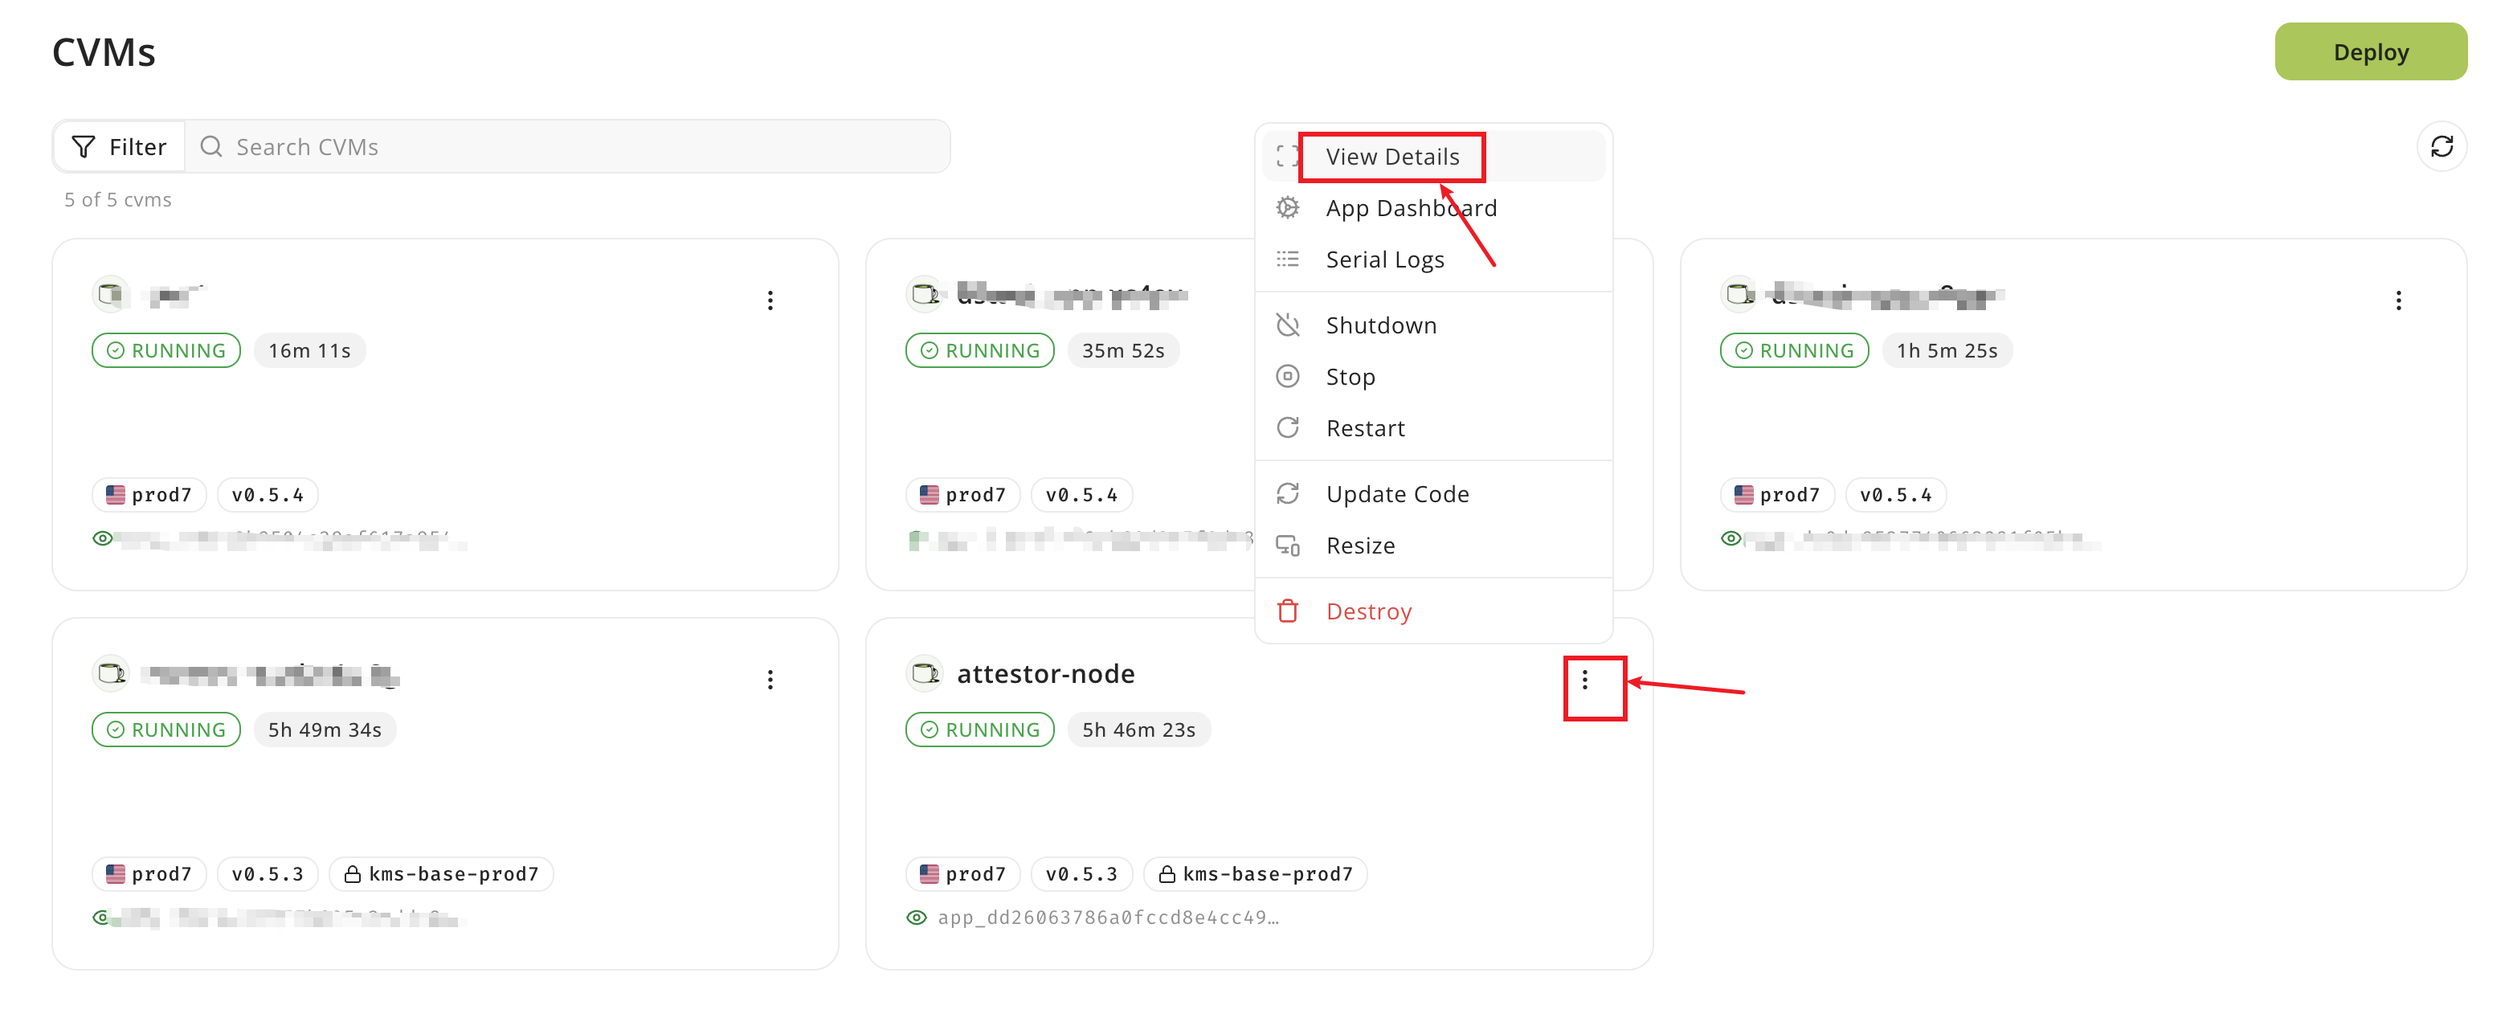
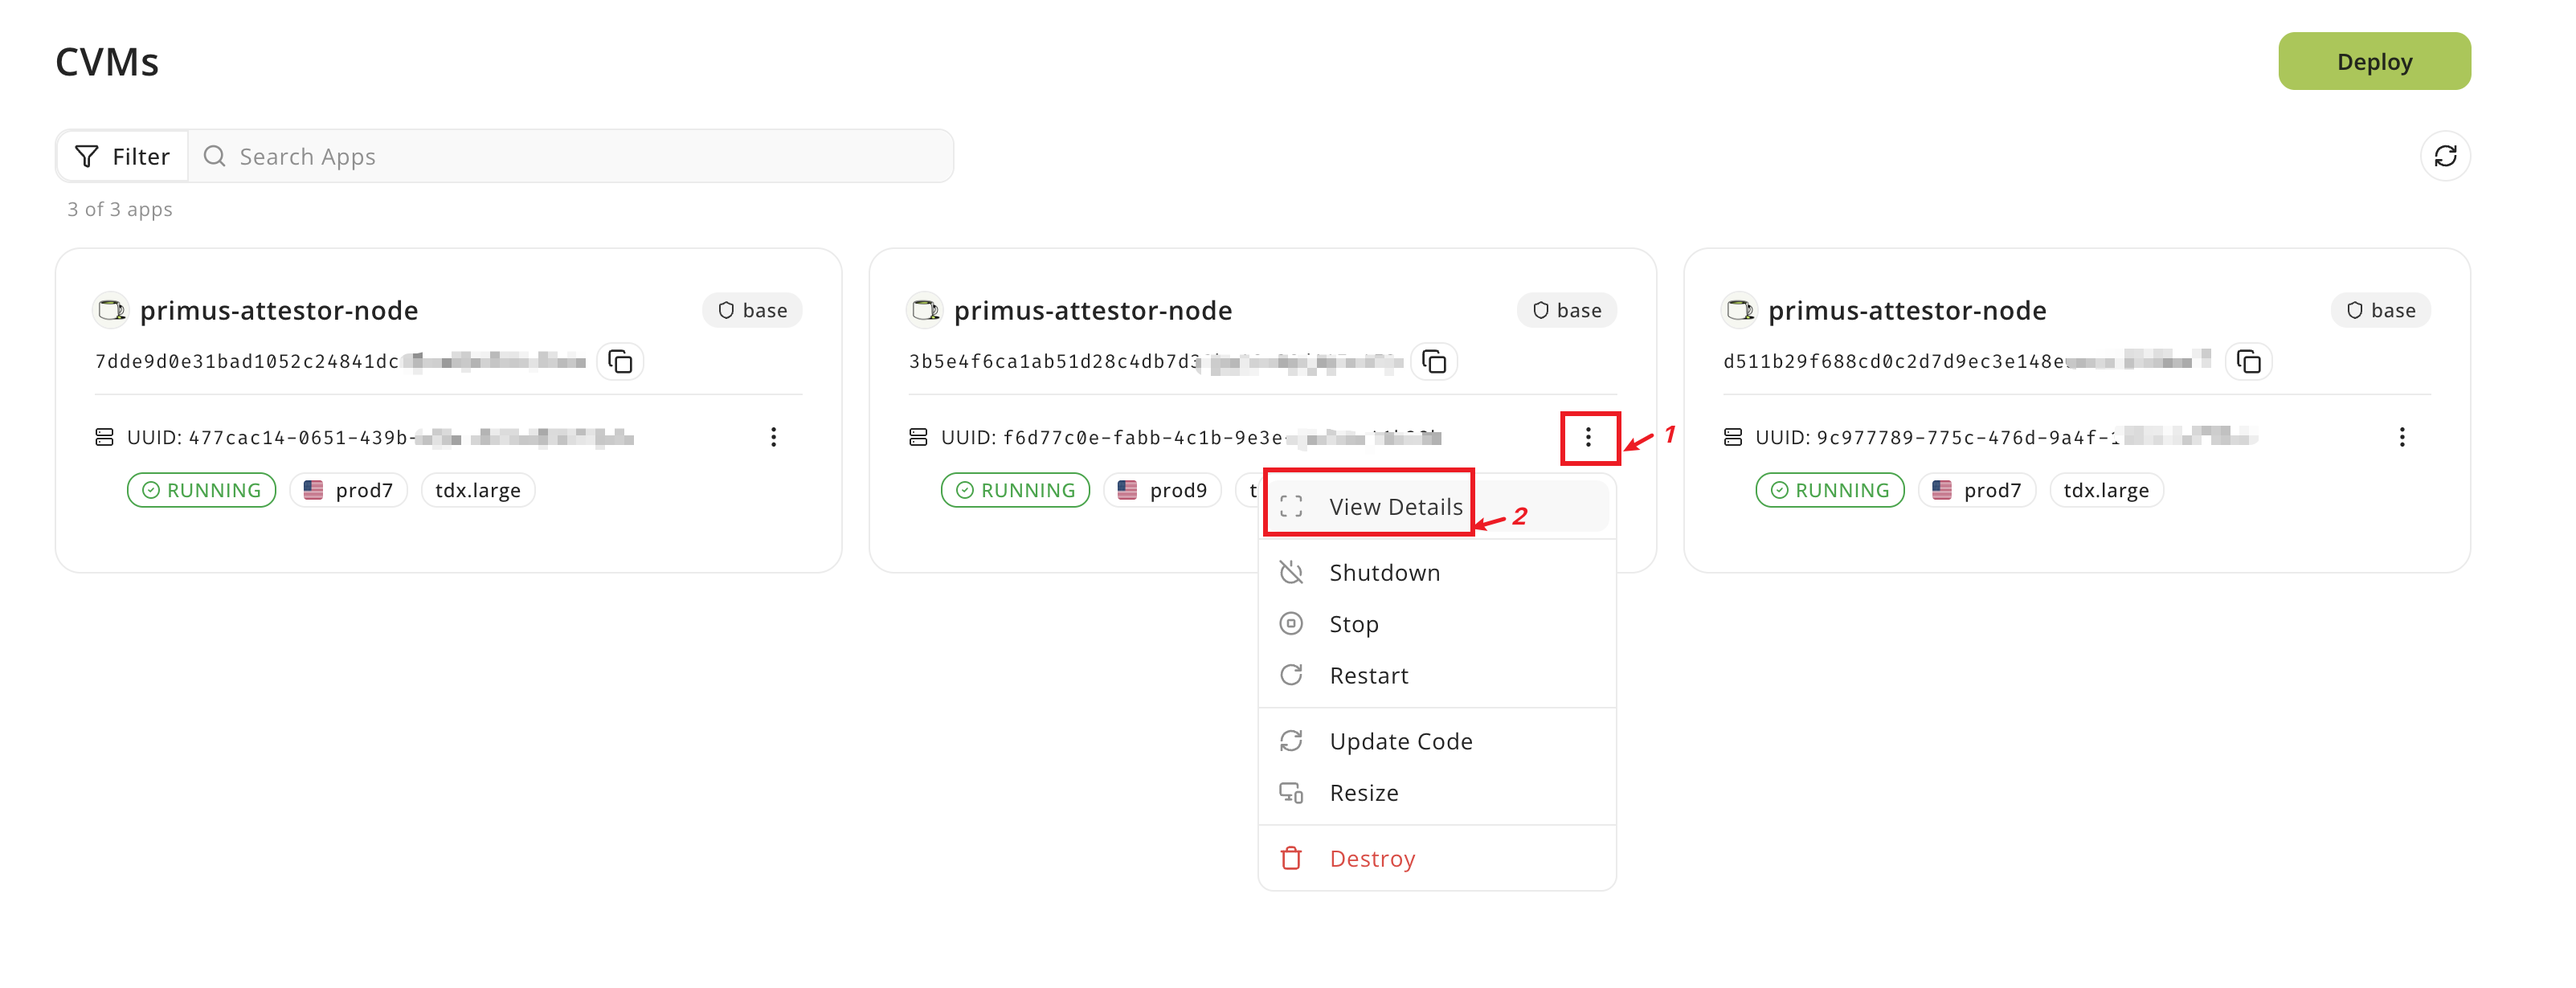
docs(readme): update image

diff --git a/README.md b/README.md
@@ -18,9 +18,9 @@ This guide explains how to deploy the Primus Network Attestor Node using TEE (pr
 ##### 1. Visit the [deployment template](https://cloud.phala.network/templates/primus-attestor-node) and click `Deploy` button.  
 ![](images/template_deploy_start.png)
 ##### 2. Please fill in the required fields:
-- **Name**: This node's name, you can use default or customize it.
+- **Name**: This node's name, ***you should use the default name***.
 - **KMS Provider**: Only supports `Base`
-- **Node**: `prod9`
+- **Node**: `prod7`
 - **Instance Type**: Use `Large TDX Instance(4 vCPU, 8 GB)`
 - **Storage**: Larger than `20 GB`
 - **Operating System**: `dstack-0.5.4.1`
